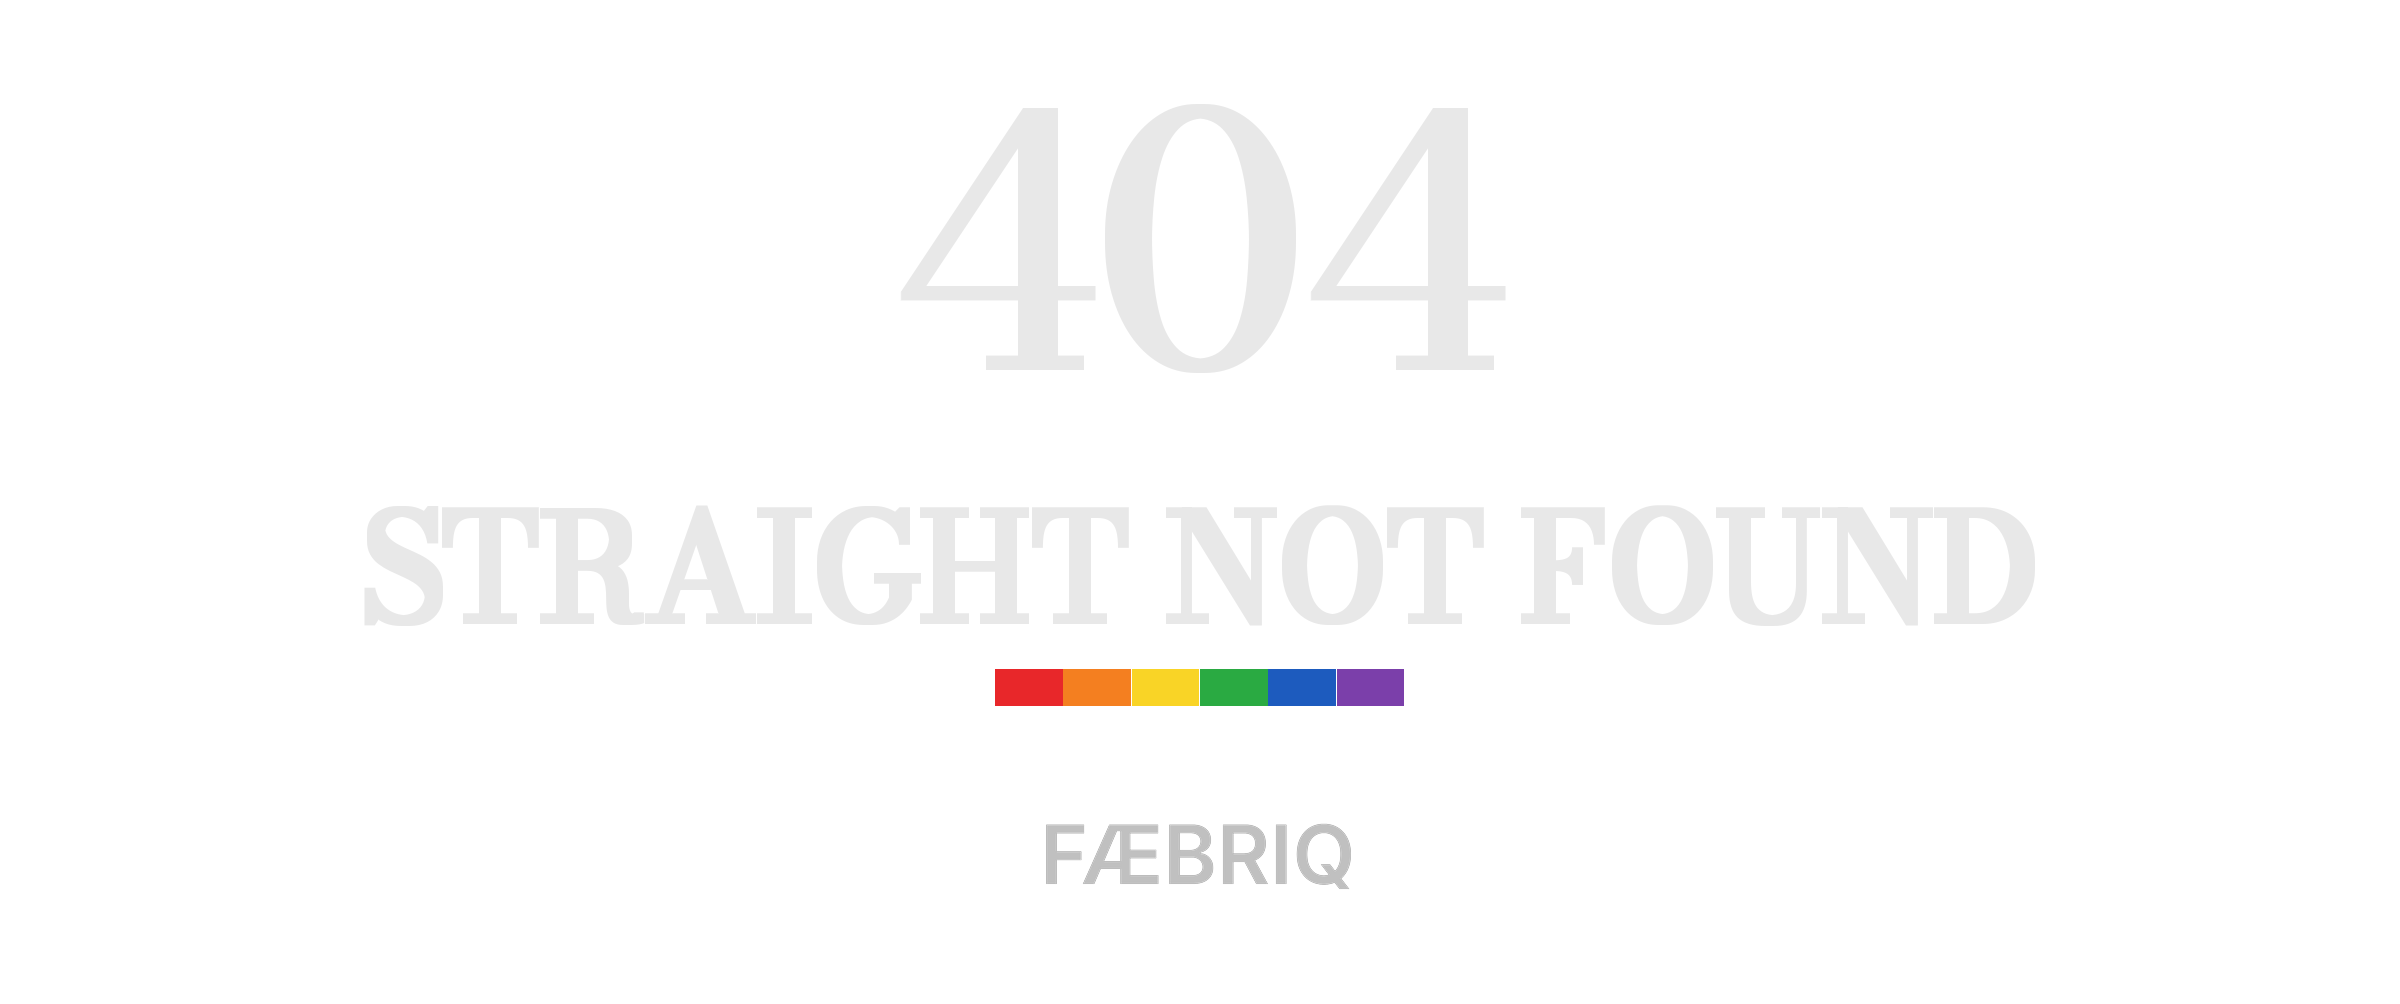
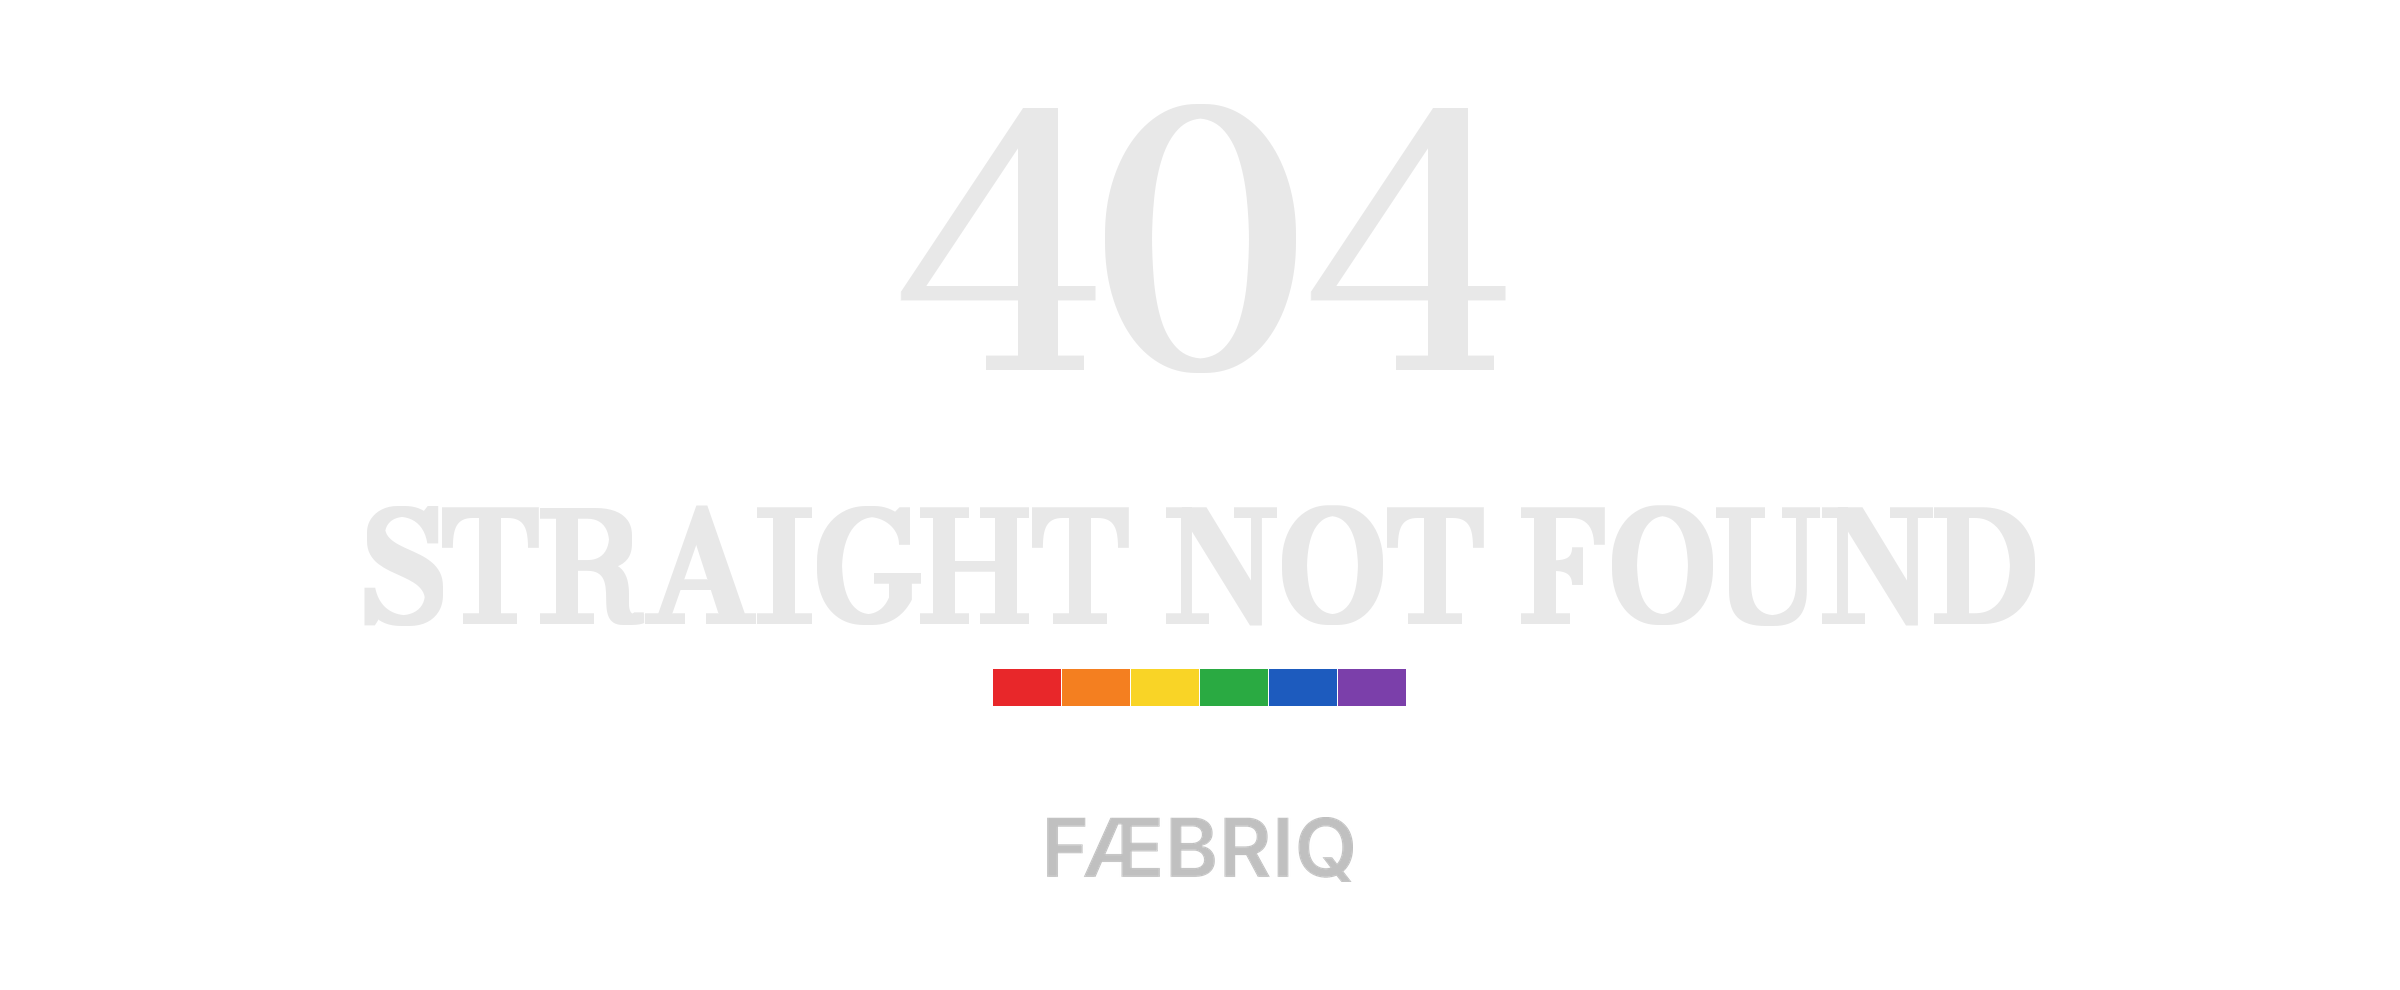
Rebuild 404 sticker with sans wordmark, add black-text version
Sticker mark was set in Bodoni; now cut from the founder reference.
Bar re-sized to 1.35x the real mark. New dark-ink file for white stock.

Claude-Session: https://claude.ai/code/session_0128ishu9SVi3TinxzWtSmKv

Changed region(s): [[0.4062, 0.6667, 0.5938, 0.7273], [0.4375, 0.8182, 0.5625, 0.9091]]

diff --git a/tools/make_404_v3.py b/tools/make_404_v3.py
@@ -4,17 +4,17 @@ import make_print_file as m
 from PIL import Image, ImageFont, ImageDraw
 # Proportions measured off Maurice's 2026-09-23 reference, as fractions of bar width B.
 R=dict(n404_w=0.2799, l2_w=0.7732, gap1=0.0642, gap2=0.0216, bar_h=0.0166, gap_mark=0.0510, mark_w=0.140)
-def build(out,width,sticker,tote=False):
+def build(out,width,sticker,tote=False,ink='light'):
     serif=m.font_path("Bodoni Moda",None,"BodoniModa-Regular.ttf")
-    col={k:tuple(int(v.lstrip('#')[i:i+2],16) for i in (0,2,4)) for k,v in m.INK_LIGHT.items()}
+    col={k:tuple(int(v.lstrip('#')[i:i+2],16) for i in (0,2,4)) for k,v in (m.INK_LIGHT if ink=='light' else m.INK_DARK).items()}
     pad=width*0.045; B=width-2*pad
     f1=m._fit(ImageFont,serif,"404",R['n404_w']*B,'w'); f2=m._fit(ImageFont,serif,"STRAIGHT NOT FOUND",R['l2_w']*B,'w')
     h1=f1.getbbox("404"); h1=h1[3]-h1[1]; h2=f2.getbbox("STRAIGHT NOT FOUND"); h2=h2[3]-h2[1]
     y1=pad; y2=y1+h1+R['gap1']*B; yb=y2+h2+R['gap2']*B; bh=R['bar_h']*B
-    fm=None; bottom=yb+bh
+    bottom=yb+bh
     if sticker:
-        fm=m._fit(ImageFont,serif,"FÆBRIQ",R['mark_w']*B,'w')
-        hm=fm.getbbox("FÆBRIQ"); hm=hm[3]-hm[1]
+        # Sans wordmark cut from the founder reference, not set in Bodoni (Maurice, 2026-10-01).
+        wm=m.wordmark_mask(R['mark_w']*B,col['mark']); hm=wm.height
         ym=yb+bh+R['gap_mark']*B; bottom=ym+hm
     if tote:
         # Tote (Maurice, 2026-10-01): sans wordmark underneath, measured off his
@@ -28,13 +28,13 @@ def build(out,width,sticker,tote=False):
     # 1.35x the FÆBRIQ mark's own width, not tied to the full canvas width B.
     # The apparel file (sticker=False) has no mark, so it keeps the old
     # full-width bar -- nothing for it to be 1.35x of.
-    bar_w = m.BAR_TO_MARK_RATIO * fm.getlength("FÆBRIQ") if sticker else B
+    bar_w = m.BAR_TO_MARK_RATIO * wm.width if sticker else B
     sw, gap = m.SRC['stripe_frac']*bar_w, m.SRC['gap_frac']*bar_w
     bx = cx - bar_w/2
     for i,c in enumerate(m.CIRCUIT): x0=bx+i*(sw+gap); d.rectangle([x0,yb,x0+sw,yb+bh],fill=c)
-    if sticker: m._draw_reinforced(im,cx,ym,"FÆBRIQ",fm,col['mark'])
-    if tote: im.alpha_composite(wm,(int(round(cx-wm.width/2)),int(round(ym))))
+    if sticker or tote: im.alpha_composite(wm,(int(round(cx-wm.width/2)),int(round(ym))))
     im.save(out,'PNG',dpi=(300,300)); print(out,im.size)
 build('assets/print-art/404-straight-not-found-v3-light-4500.png',4500,False)
 build('assets/print-art/404-straight-not-found-v3-tote-light-4500.png',4500,False,tote=True)
 build('assets/print-art/sticker-final-system-2026-08-27/404-straight-not-found-v3-sticker-light-2400.png',2400,True)
+build('assets/print-art/sticker-final-system-2026-08-27/404-straight-not-found-v3-sticker-dark-2400.png',2400,True,ink='dark')

diff --git a/CHANGELOG.md b/CHANGELOG.md
@@ -163,3 +163,4 @@ Why: first voice pass came out kids-cartoon, and AI video tests showed wordmark 
 - 2026/10/01: added 404 tote print files (sans wordmark + no-wordmark variants); Printify tote still carried the old serif wordmark file.
 - 2026/10/01: removed the two tote files added earlier today; they used the retired ERROR 404 / STRAIGHT NOT / FOUND layout. Canonical tote art stays 404-straight-not-found-v3-light-4500.png.
 - 2026/10/01: added 404 v3 tote print file with sans wordmark underneath (make_404_v3.py tote mode), per Maurice: tote always carries the wordmark.
+- 2026/10/01: 404 v3 sticker rebuilt with the sans wordmark (was Bodoni) and bar at 1.35x mark; added black-text (dark ink) sticker for white stock.
